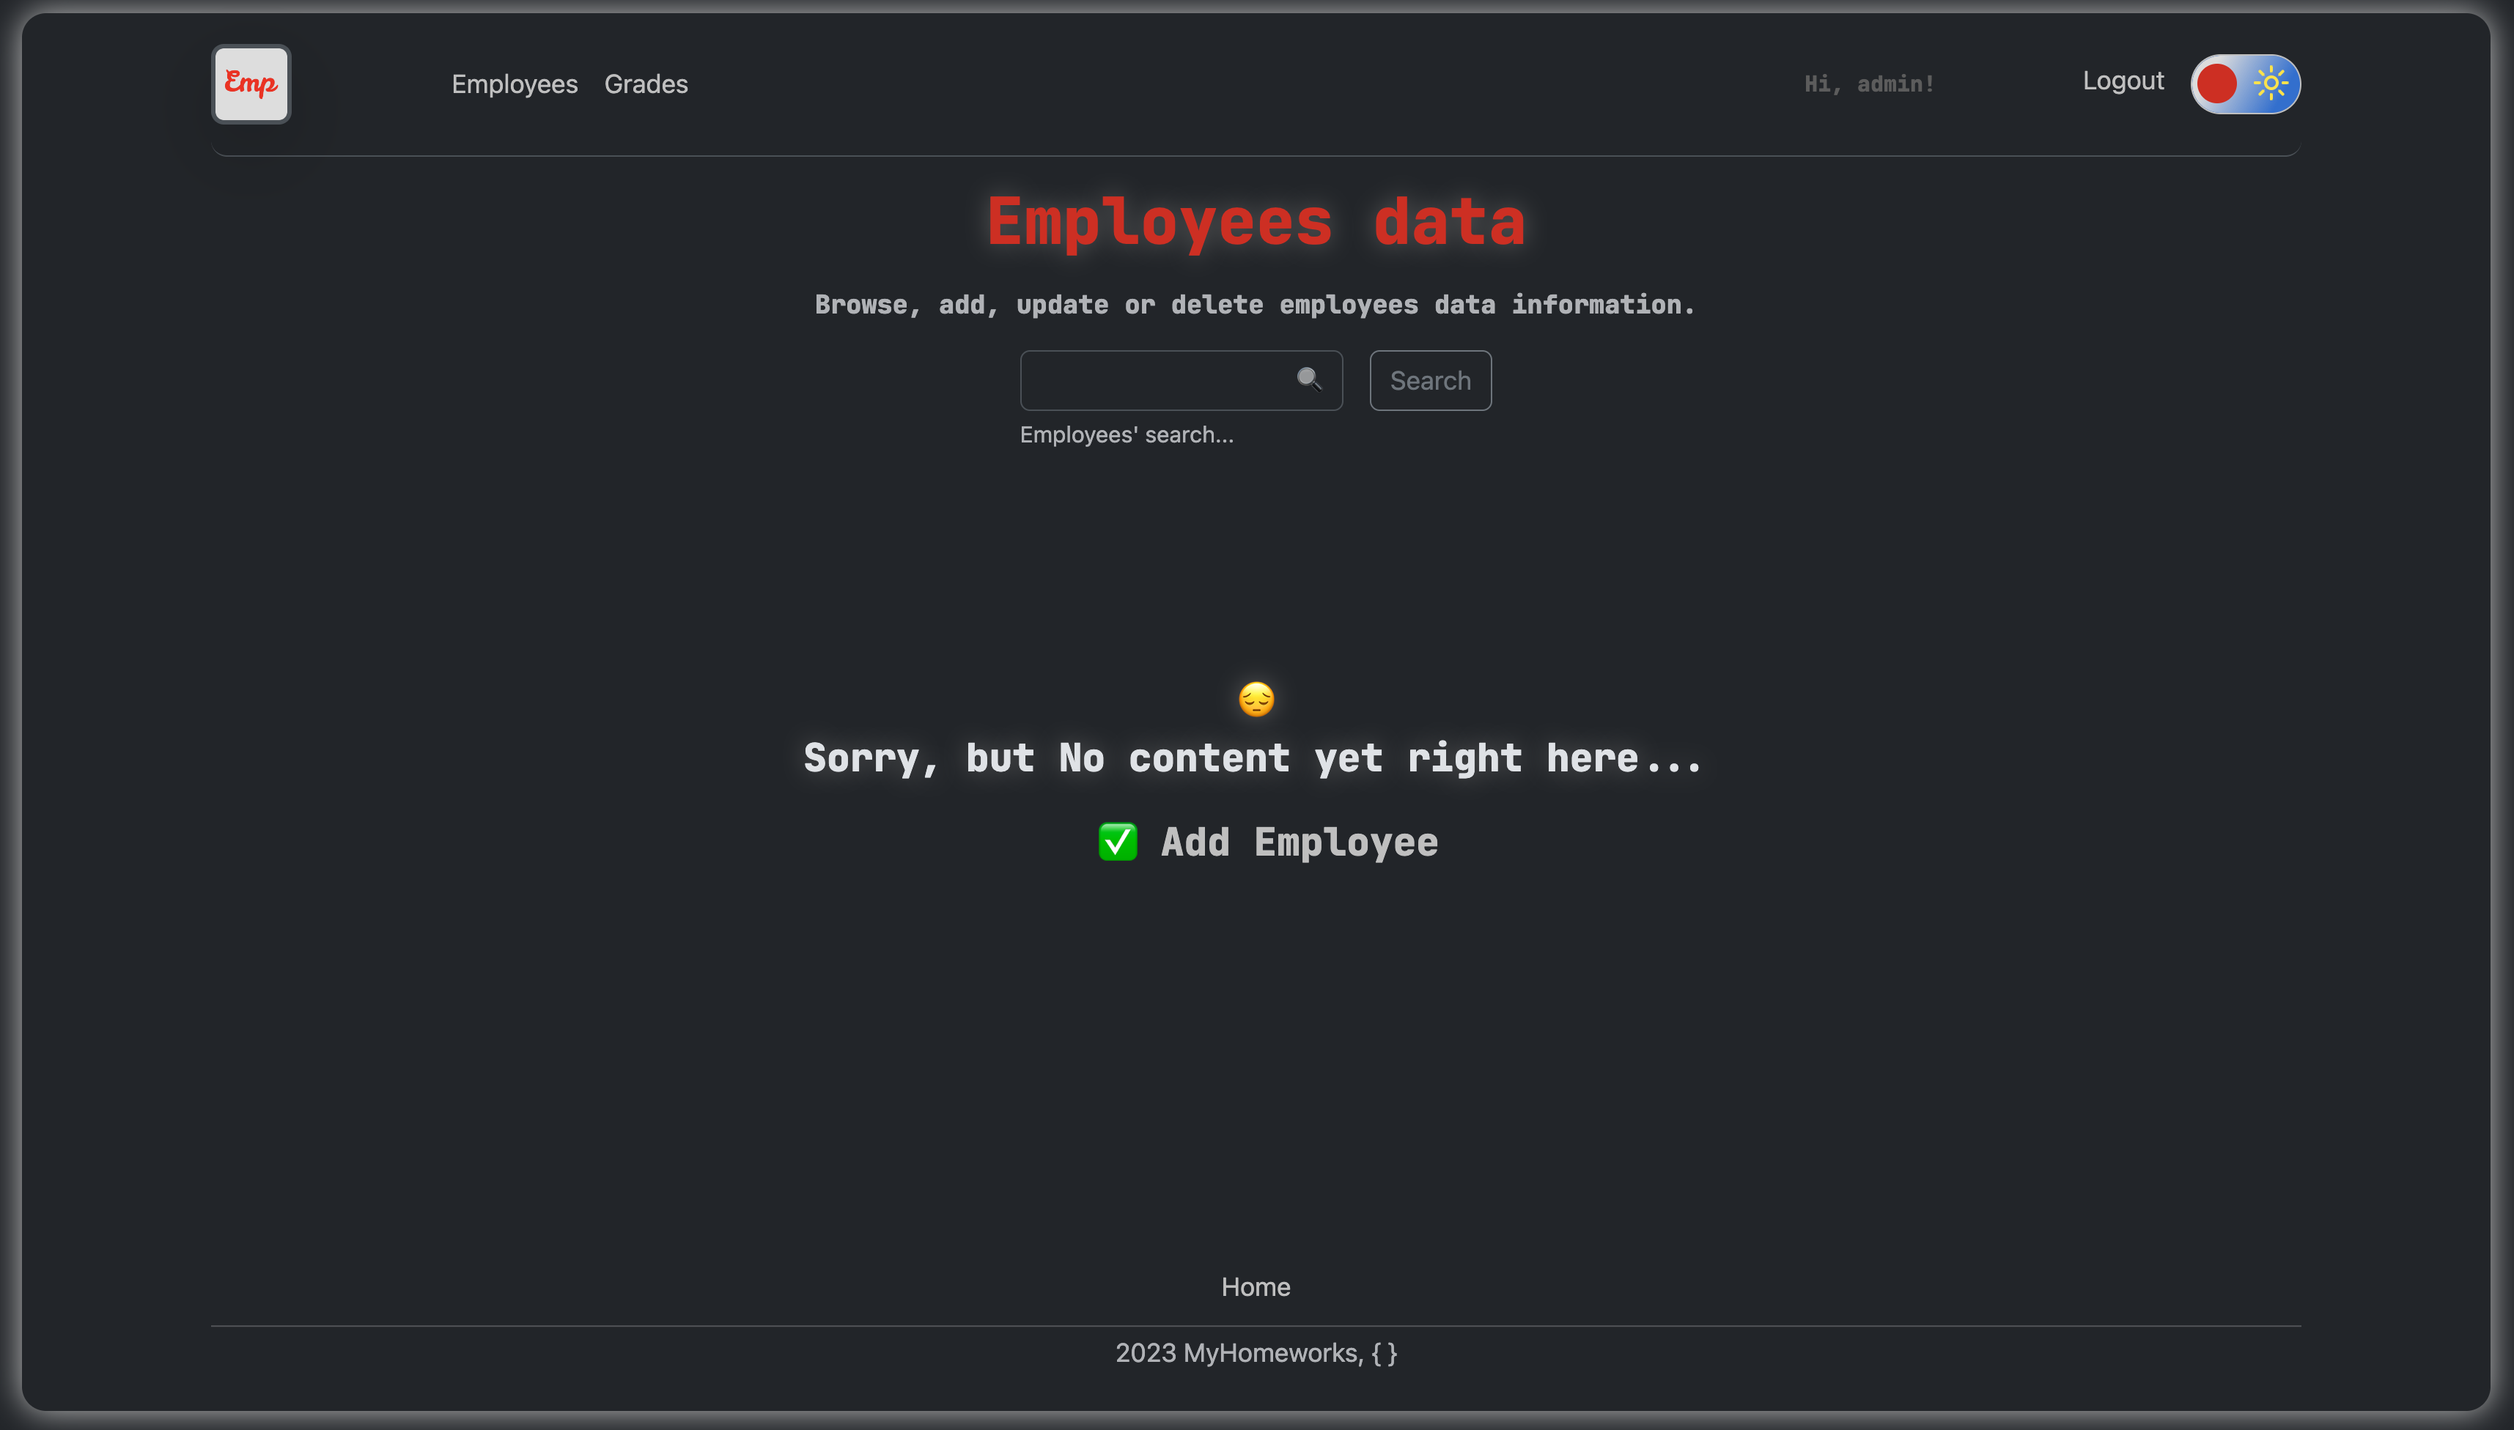
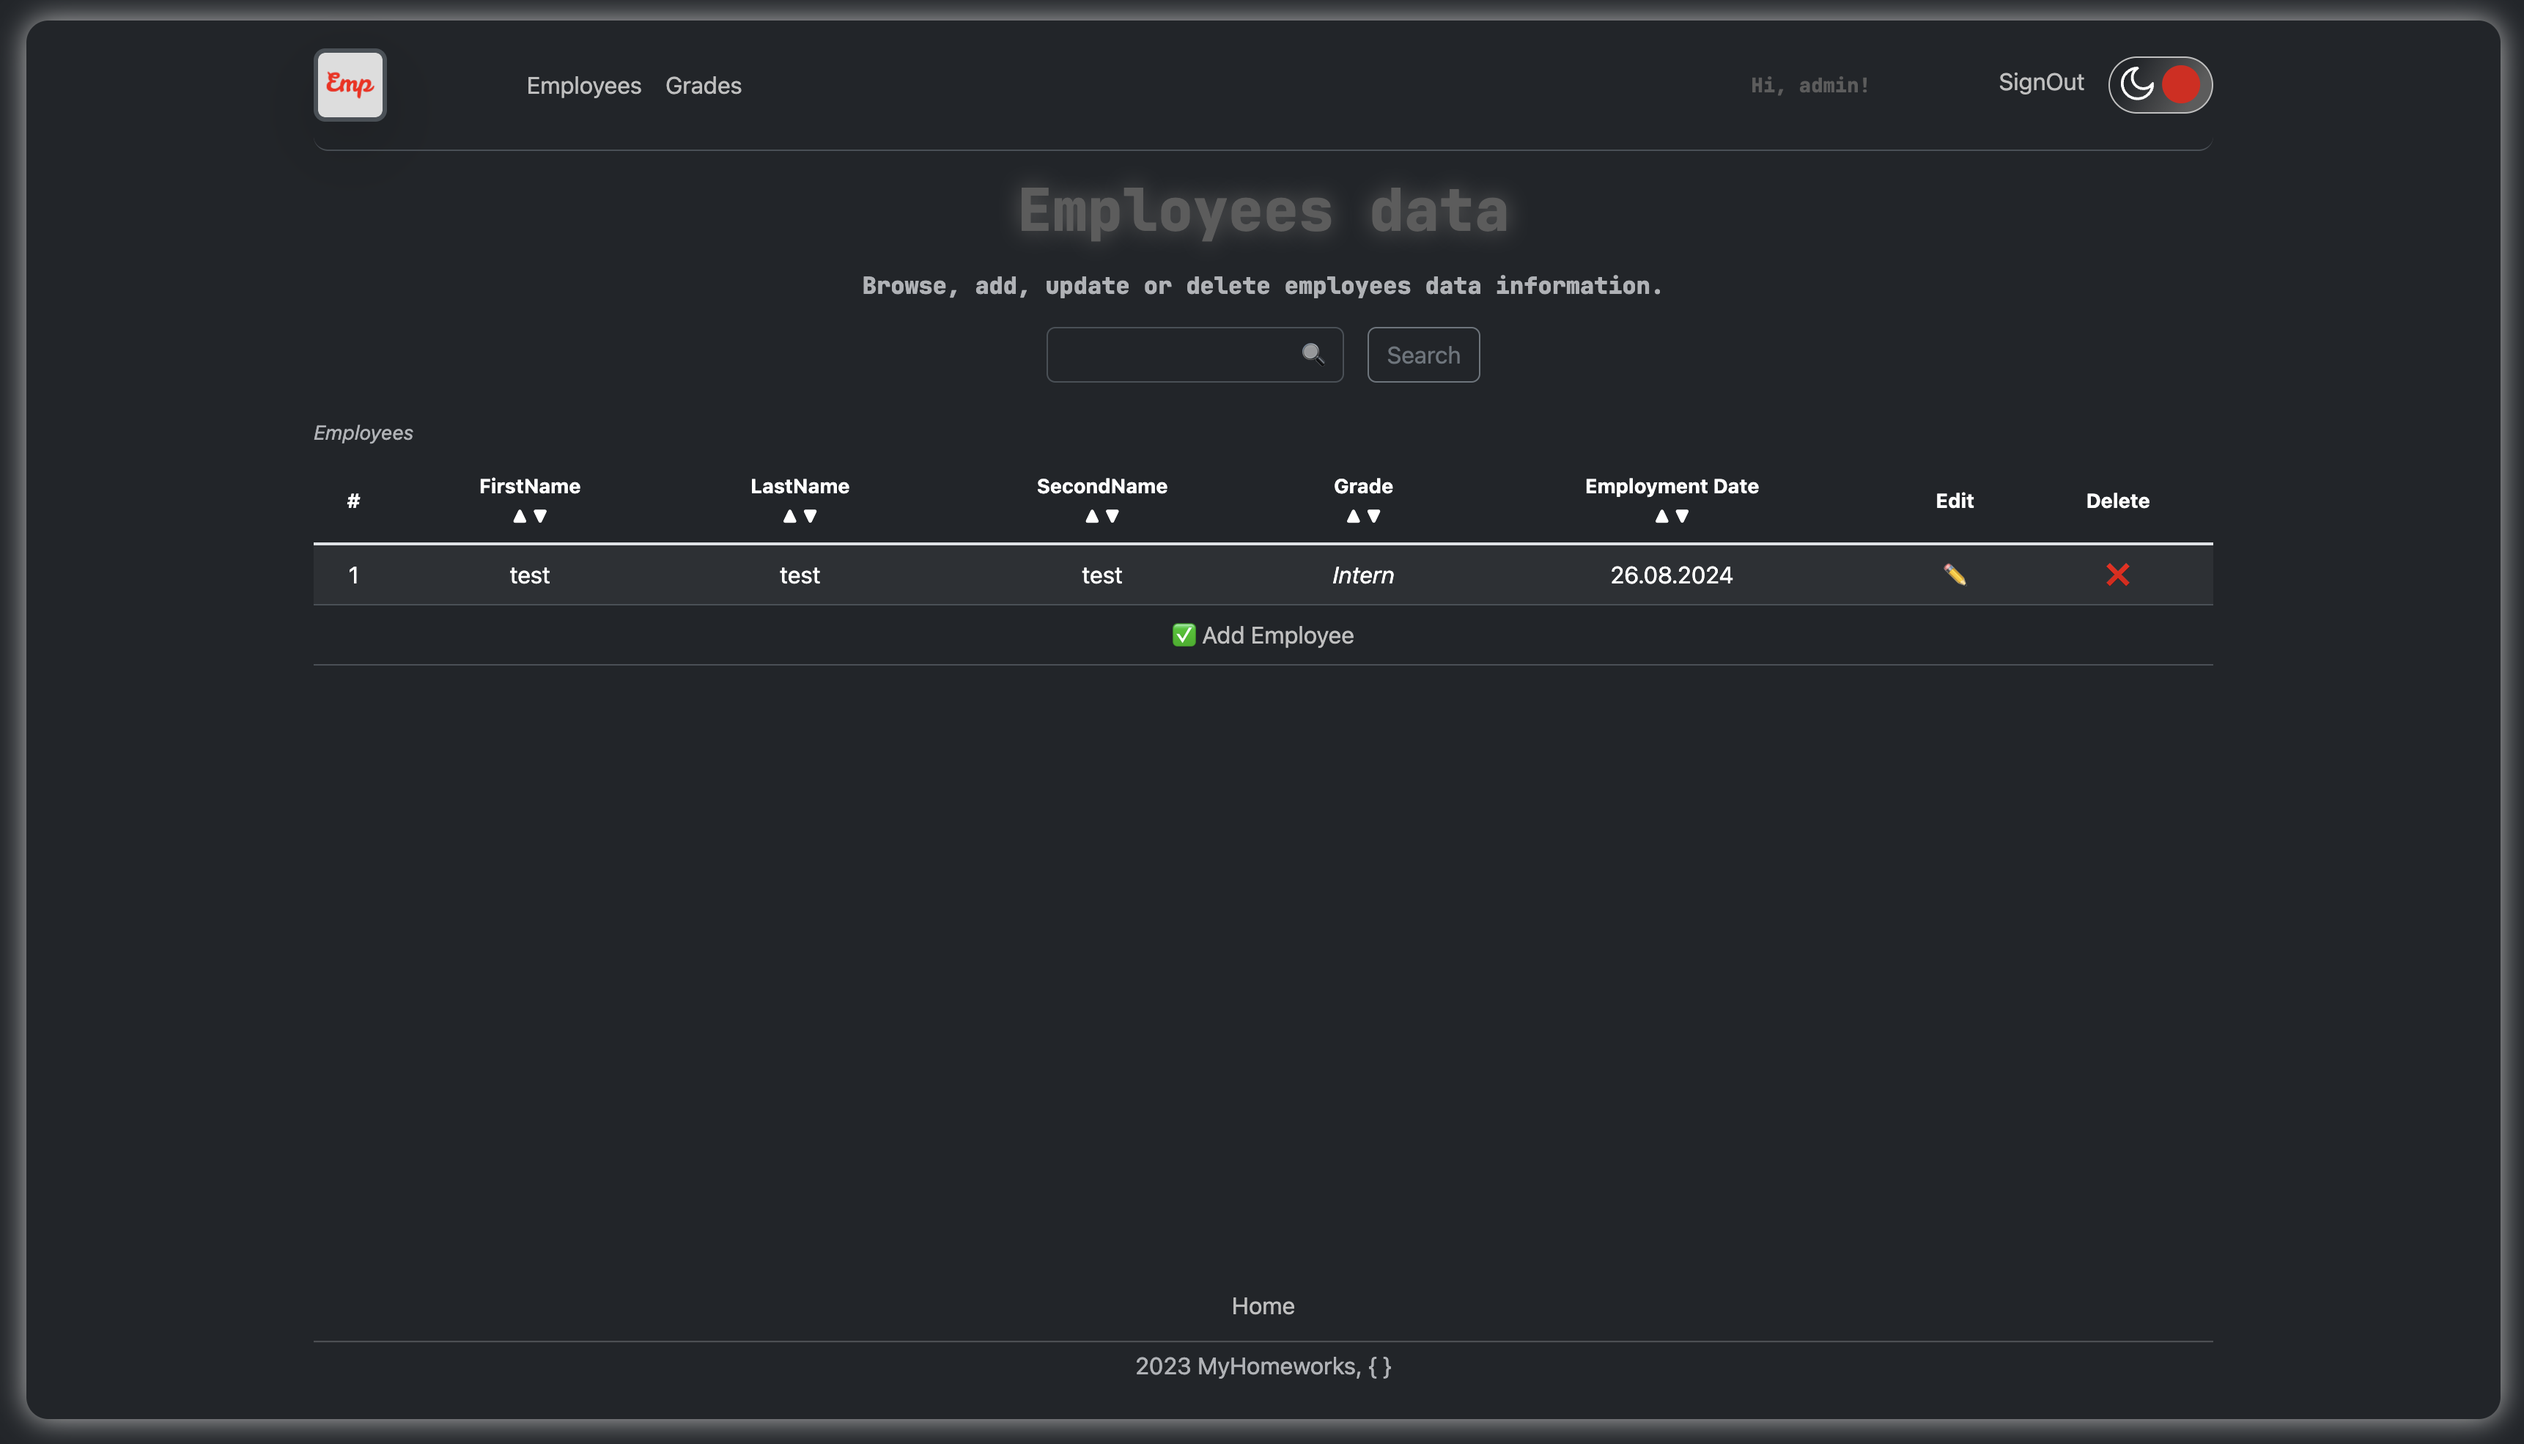
Change README, change screenshots, fix bugs in html/scss. Fix bugs in compose.

diff --git a/Employees_grades__main/templates/index.html b/Employees_grades__main/templates/index.html
@@ -17,7 +17,7 @@
 	<link rel="manifest" href="{% static 'favicon_io/site.webmanifest' %}" />
 	<meta name="keywords" content="employees, grades, python3, javascript, html, scss, git, django, bootstrap" />
 	<meta name="description"
-		content="This is a MPA project, based on Django4. The app implements simple relationship between two models in MySQL-database (employees & grades) with minimum UI." />
+		content="This is a simple MPA project, based on Django4. The app implements relationship between two models in PostgresQL (employees & grades) with minimum UI." />
 	<title>Employees&Grades</title>
 </head>
 
@@ -116,7 +116,7 @@
 			<div id="myHomework_label">
 				<h2>
 					<span style="color: rgb(92, 92, 92)">2023</span><br class="myHomework_labelBr" />
-					<span style="color: rgb(92, 92, 92)">&ensp;MyHomeworks,&ensp;</span><br class="myHomework_labelBr" />
+					<span style="color: rgb(92, 92, 92)">&ensp;MyHomeworks</span><br class="myHomework_labelBr" />
 				</h2>
 				<div class="bracketsBlock">
 					<h2><span style="color: rgb(92, 92, 92)">&#123;" </span></h2>
@@ -134,7 +134,7 @@
 		{% if user.is_authenticated %}
 
 		<div class="logoString_h3 text-center mt-3">
-			<h3>Entry_task</h3>
+			<h3>Employees<span> & </span>Grades</h3>
 			<p class="mt-3">Choose one of the category</p>
 		</div>
 		<div class="body__card">
@@ -172,7 +172,6 @@
 		{% else %}
 
 		<div class="d-flex flex-column align-items-center text-center">
-			<h3 class="logoString_h3" style="color: rgb(92, 92, 92)">Employees App</h3>
 			<hr style="width: 10rem" />
 			<span class="text-small">All funtions are available only for <u>signed in</u> users.</span>
 			<a href="{% url 'login' %}" class="nav-link mt-3" title="signIn">SignIn!</a>

diff --git a/Employees_grades__main/templates/registration/login.html b/Employees_grades__main/templates/registration/login.html
@@ -17,7 +17,7 @@
     <link rel="manifest" href="{% static 'favicon_io/site.webmanifest' %}" />
     <meta name="keywords" content="employees, grades, python3, javascript, html, scss, git, django, bootstrap" />
     <meta name="description"
-        content="This is a MPA project, based on Django4. The app implements simple relationship between two models in MySQL-database (employees & grades) with minimum UI." />
+        content="This is a simple MPA project, based on Django4. The app implements relationship between two models in PostgresQL (employees & grades) with minimum UI." />
     <title>Employees&Grades</title>
 </head>
 

diff --git a/Employees_grades__main/templates/registration/signup.html b/Employees_grades__main/templates/registration/signup.html
@@ -17,7 +17,7 @@
 	<link rel="manifest" href="{% static 'favicon_io/site.webmanifest' %}" />
 	<meta name="keywords" content="employees, grades, python3, javascript, html, scss, git, django, bootstrap" />
 	<meta name="description"
-		content="This is a MPA project, based on Django4. The app implements simple relationship between two models in MySQL-database (employees & grades) with minimum UI." />
+		content="This is a simple MPA project, based on Django4. The app implements relationship between two models in PostgresQL (employees & grades) with minimum UI." />
 	<title>Employees&Grades</title>
 </head>
 

diff --git a/static/webpack.config.js b/static/webpack.config.js
@@ -20,5 +20,10 @@ module.exports = {
       { test: /\.js$/, exclude: /node_modules/, use: 'babel-loader' }
     ]
   },
-  plugins: [new Dotenv(), new ESLintPlugin({ configType: 'flat', extensions: ['js'] })]
+  plugins: [
+    new Dotenv({
+      path: '../.env.public'
+    }),
+    new ESLintPlugin({ configType: 'flat', extensions: ['js'] })
+  ]
 };

diff --git a/static/src/scss/style_common.scss b/static/src/scss/style_common.scss
@@ -42,9 +42,12 @@ footer {
 }
 
 .logoString_h3 > h3 {
-  color: $custom_red !important;
+  color: $custom_darkgrey !important;
   font-size: 2.5rem;
   text-shadow: 0 0px 15px $custom_darkgrey;
+  span {
+    color: $custom_red !important;
+  }
 }
 
 .no-content {

diff --git a/README.md b/README.md
@@ -1,47 +1,139 @@
-## Description
-This is a Django test project using MySQL and Docker.
+## App Description &#128209;
 
+This is a simple MPA project, based on Django4. The app implements relationship between two models in PostgresQL (employees & grades) with minimum UI.
 
-## Launch instructions
+## Launch instructions &#128190;
 
+&#9881;**Frontend**:
 
-1. Clone repository to your local folder;
-2. Copy dev.env to .env file: ```cp dev.env .env```;
-3. Open and follow the instructions in the new created .env file;
-4. For this step you should already have installed Docker and docker-compose on your PC:
-- make sure You are in project folder: ```cd '.../project_folder' ```;
-- Run docker-compose: ```docker-compose up --build```;
-- Installation can take some time, it depends on your PC resources;
-- After the installation is completed, the server will start automatically on 0.0.0.0:8900;
-- Open app using http://0.0.0.0:8900/ in your browser;
-5. The superuser has been already created;
-- You can login under current superuser using standart credentials: ```login: admin; pass: 12345admin```;
-- For password change use: ```cd '.../project_folder' && python3 manage.py changepassword admin```
-- Or You can manually create superuser for Your own purpose: ```cd '.../project_folder' && python3 manage.py createsuperuser``` ;
-6. Note that DataBase - MySQL;
-7. To stop the server: ```Ctrl+C```;
-8. To completely remove all created docker containers, images and volumes: ```docker-compose down --volumes```.
+- Bootstrap5;
+- HTML/SCSS;
+- Webpack + prettier + eslint.
+  
+&#9881;**Backend**:
 
-### Screenshots 
+- Django 4;
+- Docker;
+- PostgresQL.
 
-1. Main page (desktop/phone)
-<div align="center">
-  <img src="./screenshots/ScreenShot_1.png" width="75%" heigth="75%" alt="Main page - desktop">
+<div style="display: flex; justify-content: end;">
+  <p>Git and Docker should be installed locally on Your PC.</p>
 </div>
-![Main page - phone](screenshots/ScreenShot_2.png)
 
-2. Select part (desktop/phone)
-![Select part desktop](screenshots/ScreenShot_3.png)
-![Select part phone](screenshots/ScreenShot_4.png)
+---
 
-3. Data display
-![Data display](screenshots/ScreenShot_5.png)
+1. Clone repository to Your local path:
 
-4. Data edit
-![Data edit](screenshots/ScreenShot_6.png)
+    ```sh
+    cd <your_local_path> && git clone <http/ssh-link>
+    ```
 
-5. Empty data
-![Empty data](screenshots/ScreenShot_7.png)
+2. Run compose:
 
-6. Add data
-![Add data](screenshots/ScreenShot_8.png)
+    ```sh
+    cd EmployeesAndGrades && docker compose --env-file ./.env.public up --build
+    ```
+
+3. After the installation is complete the web-app will start on `0.0.0.0:8001`;
+
+- Open web-app in browser using URL: <http://0.0.0.0:8001/>
+
+4. The superuser(admin) is NOT created automatically. To create it by yourself follow the instructions below in the new terminal (related docker containers must be in use):
+
+    4.1 Create superuser:
+
+    ```sh
+    docker exec -it server python manage.py createsuperuser --noinput --username admin --email admin@example.com
+    ```
+
+    4.2 Note, that default password is already preset in the script above. Default credentials are:
+
+    ```js
+        {
+          username: admin;
+          email: admin@example.com;
+          password: admin;
+        }
+    ```
+
+    - for another password preset it should be **changed FIRST** in ./.env.public `DJANGO_SUPERUSER_PASSWORD=` and then run point 4.1.
+
+    4.3 For changing already existing superuser's password (not password preset):
+
+    ```sh
+    docker exec -it server python manage.py changepassword admin
+    ```
+
+    - you will be prompted to set another password.
+
+5. Stop the web-app press in current terminal:
+
+    ```sh
+    Ctrl + C
+    ```
+
+    or
+
+    ```sh
+    docker compose --env-file ./.env.public stop
+    ```
+
+6. Start again the web-app:
+
+    ```sh
+    docker compose --env-file ./.env.public start
+    ```
+
+7. To completely remove all related docker containers, docker images, volumes and related data:
+
+    ```sh
+    docker compose --env-file ./.env.public down --volumes --rmi all
+    ```
+
+    <span style="color: rgb(255, 0, 0)">After this step, it is need to go back to point №2 to run web-app again.</span>
+
+---
+
+### p.s
+
+- Local environment variables can be changed in the `./.env.public`<br/>
+- Outer ports of both django-server & postgresql are `8001` & `5433` respectively and could not be changed via environment.
+
+## Screenshots &#127745;
+
+1. Main page (not authenticated users)
+
+<div align="center">
+  <img src="./screenshots/ScreenShot_1.png" width="75%" heigth="75%" alt="Main page">
+</div>
+
+2. Main page (authenticated users)
+
+<div align="center">
+  <img src="./screenshots/ScreenShot_4.png" width="75%" heigth="75%" alt="Main page - desktop">
+</div>
+
+3. SignUp & signIn forms:
+
+<div align="center">
+  <img src="./screenshots/ScreenShot_2.png" width="75%" heigth="75%" alt="SignUp form">
+  <img src="./screenshots/ScreenShot_3.png" width="75%" heigth="75%" alt="SignIn form">
+</div>
+
+4. Add & edit instances:
+
+<div align="center">
+  <img src="./screenshots/ScreenShot_5.png" width="75%" heigth="75%" alt="Add instance">
+  <img src="./screenshots/ScreenShot_6.png" width="75%" heigth="75%" alt="Edit instance">
+</div>
+
+5. Representation of instances:
+
+<div align="center">
+  <img src="./screenshots/ScreenShot_7.png" width="75%" heigth="75%" alt="Employees data">
+  <img src="./screenshots/ScreenShot_8.png" width="75%" heigth="75%" alt="Grades data">
+</div>
+
+<br>
+
+---
